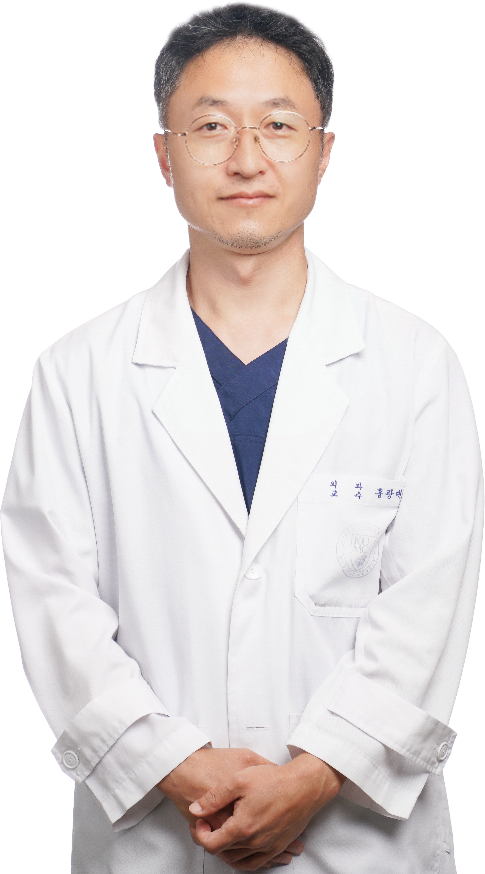
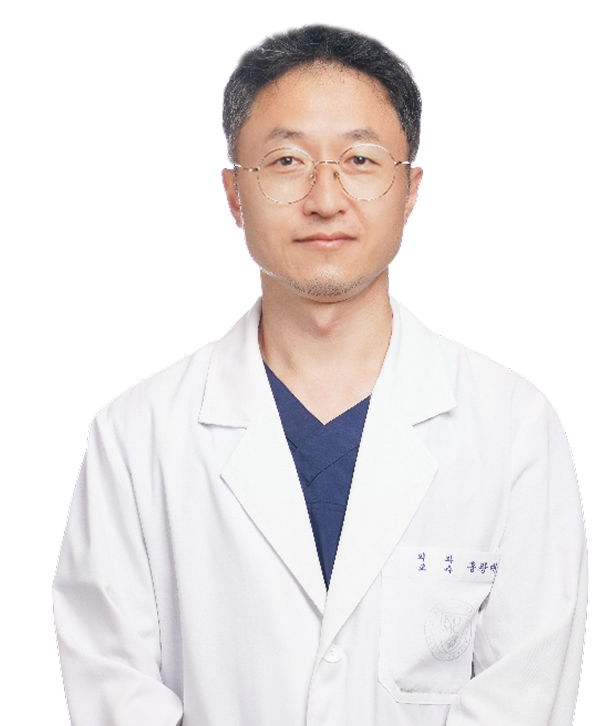
센터장 인사말 검수

diff --git a/src/config/pageContents.ts b/src/config/pageContents.ts
@@ -352,14 +352,14 @@ const anamContent: HospitalPageContent = {
       height: 600
     },
     message: [
-      '안녕하십니까?',
-      '고려대학교안암병원 진료협력센터는 지역 의료기관과의 협력을 통해 환자 중심의 의료서비스를 제공하고, 지역주민의 건강한 삶을 위해 최선을 다하고 있습니다.',
-      '저희 센터는 1·2차 의료기관에서 의뢰하신 환자분들께 신속하고 정확한 진료가 이루어질 수 있도록 최선을 다하며, 지역 의료기관과의 상생 협력을 통해 균형적인 의료 발전을 도모하고자 합니다.',
-      '원장님과 의료진분들의 신뢰를 바탕으로 환자분들의 건강한 미래를 함께 만들어가겠습니다.',
-      '진료협력 관련 문의사항이 있으시면 언제든지 연락 주시기 바랍니다.'
+      '안녕하십니까?\n항상 환자분들의 건강을 위해 헌신하시는 원장님과 의료진 여러분께 깊은 감사와 존경의 인사를 드립니다. 귀 병원의 변함없는 노력과 따뜻한 진료가 많은 환자들에게 희망이 되고 있음을 잘 알고 있습니다.',
+      '저희 고려대학교 안암병원은 지역 의료기관과의 긴밀한 협력을 바탕으로, 환자 중심의 의료서비스를 제공하고자 최선을 다하고 있습니다.',
+      '앞으로도 원장님과 긴밀한 협력을 통해 환자분들께 최상의 의료서비스를 제공할 수 있도록 최선을 다하겠습니다.',
+      '언제든지 진료협력과 관련하여 도움이 필요하시다면 진료협력센터로 편하게 연락 주시기 바랍니다.',
+      '귀 병원의 지속적인 발전과 원장님의 건승을 기원합니다.\n감사합니다.'
     ],
     signature: {
-      name: '최혁순',
+      name: '최 혁 순',
       title: '고려대학교안암병원 진료협력센터장'
     }
   },
@@ -847,14 +847,14 @@ const guroContent: HospitalPageContent = {
       height: 600
     },
     message: [
-      '안녕하십니까. 고려대학교 구로병원 진료협력센터장 입니다.',
-      '고려대학교 구로병원 진료협력센터는 지역 의료기관과의 협력을 통해 환자 중심의 의료서비스를 제공하고, 지역주민의 건강한 삶을 위해 최선을 다하고 있습니다.',
-      '저희 센터는 1·2차 의료기관에서 의뢰하신 환자분들께 신속하고 정확한 진료가 이루어질 수 있도록 최선을 다하며, 지역 의료기관과의 상생 협력을 통해 균형적인 의료 발전을 도모하고자 합니다.',
-      '원장님과 의료진분들의 신뢰를 바탕으로 환자분들의 건강한 미래를 함께 만들어가겠습니다.',
-      '진료협력 관련 문의사항이 있으시면 언제든지 연락 주시기 바랍니다.'
+      '안녕하십니까.\n고려대학교 구로병원 진료협력센터장 입니다.',
+      '항상 지역의료 현장에서 환자 진료를 위해 헌신하시며, 본원에 많은 환자를 믿고 의뢰해 주시는 전국의 1·2차 의료기관 선생님들께 깊은 감사의 인사를 드립니다.',
+      '본원은 상급종합병원으로서 중증·난이도 높은 환자 진료에 최선을 다함과 동시에, 지역의료기관과의 긴밀한 협력을 통해 환자에게 보다 신속하고 체계적인 의료 서비스를 제공하는 것을 중요한 책무로 여기고 있습니다.\n선생님들께서 보내주신 신뢰와 성원 덕분에, 진료의뢰와 회송을 중심으로 한 협력 진료 체계가 보다 안정적으로 운영될 수 있었습니다.',
+      '앞으로 진료협력센터는 의뢰·회송 과정의 편의성과 신속성을 지속적으로 개선하고, 원활한 소통과 상호 존중을 바탕으로 한 진료 협력 관계가 더욱 활성화될 수 있도록 최선을 다하겠습니다.\n또한 협력병·의원 선생님들께 실질적으로 도움이 되는 진료 연계 체계를 구축하여 지역의료 발전에 기여하는 상급종합병원이 되도록 노력하겠습니다.',
+      '앞으로도 변함없는 관심과 협력을 부탁드리며, 의뢰해 주시는 모든 환자분들의 진료에 책임감을 가지고 성실히 임할 것을 약속드립니다.\n감사합니다.'
     ],
     signature: {
-      name: '윤영훈',
+      name: '윤 영 훈',
       title: '고려대학교 구로병원 진료협력센터장'
     }
   },
@@ -1451,14 +1451,15 @@ const ansanContent: HospitalPageContent = {
       height: 600
     },
     message: [
-      '안녕하십니까? 고려대학교안산병원 진료협력센터장 홍광대입니다.',
-      '고려대학교안산병원 진료협력센터는 지역 의료기관과의 협력을 통해 환자 중심의 의료서비스를 제공하고, 지역주민의 건강한 삶을 위해 최선을 다하고 있습니다.',
-      '저희 센터는 1·2차 의료기관에서 의뢰하신 환자분들께 신속하고 정확한 진료가 이루어질 수 있도록 최선을 다하며, 지역 의료기관과의 상생 협력을 통해 균형적인 의료 발전을 도모하고자 합니다.',
-      '원장님과 의료진분들의 신뢰를 바탕으로 환자분들의 건강한 미래를 함께 만들어가겠습니다.',
-      '진료협력 관련 문의사항이 있으시면 언제든지 연락 주시기 바랍니다.'
+      '안녕하십니까?\n고려대학교안산병원 진료협력센터장 홍광대입니다.',
+      '홈페이지를 방문해 주셔서 감사드립니다.',
+      '고대안산병원은 상급종합의료기관으로 보건의료의 중추적인 역할을 담당하고 있으며, 지역 병·의원과 긴밀한 진료협력을 위해 진료협력센터를 운영하고 있습니다.',
+      '진료협력센터는 사회여건과 의료 환경의 어려운 변화 속에서 편리하고 효율적인 진료협력시스템을 구축하기 위해 지속적으로 노력하고 있습니다.',
+      '진료협력센터 홈페이지를 통하여 진료의뢰와 결과조회의 편의성을 높이고 의뢰해 주신 환자와 관련하여 믿음을 드리고자 합니다.',
+      '항상 선생님들의 의견에 귀 기울이며 신뢰를 바탕으로 상호 발전하는 진료협력센터가 되도록 모든 직원이 한마음 한 뜻으로 최선을 다하겠습니다.\n감사합니다.'
     ],
     signature: {
-      name: '홍광대',
+      name: '홍 광 대',
       title: '고려대학교 안산병원 진료협력센터장'
     }
   },

diff --git a/src/app/about/greeting/page.module.scss b/src/app/about/greeting/page.module.scss
@@ -14,7 +14,7 @@
   font-weight: $font-weight-semibold;
   line-height: $line-height-normal;
   letter-spacing: -1.92px;
-  color: $gray-12;
+  color: #000000;
   text-align: center;
   margin: 0 0 $spacing-12;
 
@@ -25,8 +25,6 @@
   }
 
   @include mobile {
-    font-size: 32px;
-    letter-spacing: -1.28px;
     margin-bottom: $spacing-8;
   }
 }
@@ -107,15 +105,13 @@
   }
 }
 
-// Figma: 데스크톱 - 좌측 이미지·우측 영역 높이 동일, 좌측 ~45% / 우측 ~55% 비율
+// Figma: 데스크톱 - 좌측 이미지(641px) · 우측 텍스트, gap 80px
 // 태블릿 - 이미지 중앙 배치, 슬로건 오버레이, 텍스트 아래 배치
 .content {
   display: grid;
-  grid-template-columns: minmax(280px, 420px) 1fr;
-  gap: $spacing-16;
+  grid-template-columns: 45fr 55fr; // Figma 비율: 이미지 ~45% / 텍스트 ~55%
+  gap: $spacing-20; // Figma: 80px
   align-items: stretch;
-  max-width: 960px;
-  margin: 0 auto;
 
   @include tablet {
     grid-template-columns: 1fr;
@@ -134,30 +130,19 @@
 .imageWrapper {
   position: relative;
   width: 100%;
-  max-width: 420px;
-  min-height: 100%;
-  display: flex;
-  justify-content: center; // 가로 중앙 정렬
-  align-items: flex-end; // 세로 하단 정렬
-  overflow: visible; // 태블릿에서 슬로건 오버레이를 위해 visible로 변경
+  overflow: visible;
   border-radius: 8px;
+  // 높이는 텍스트 컬럼에 의해 결정됨 (align-items: stretch)
 
   @include tablet {
     order: 1;
-    min-height: 0;
-    max-width: 100%; // 100%로 설정
     width: 100%;
-    margin: 0; // 왼쪽 정렬
-    align-items: flex-end;
-    justify-content: flex-start; // 왼쪽 정렬
     overflow: visible;
   }
 
   @include mobile {
     order: 1;
-    min-height: 0;
     max-width: 100%;
-    align-items: flex-end;
     overflow: visible;
   }
 }
@@ -165,13 +150,13 @@
 // 배경: 건물 스케치 이미지 (원본 높이만큼 크게, 더 많이 보이도록)
 .backgroundImage {
   position: absolute;
-  bottom: 0; // 하단부터 시작
-  right: 0; // 오른쪽 정렬
-  width: 100%; // 전체 너비 사용하여 배경이 더 많이 보이도록
-  height: 100%; // 전체 높이 사용
+  bottom: 0;
+  right: 0;
+  width: 100%;
+  height: 100%;
   z-index: 1;
   opacity: 0.3;
-  overflow: hidden; // 배경 이미지만 잘림 처리
+  overflow: hidden;
 
   @include tablet {
     top: 0; // 상단부터 시작
@@ -200,30 +185,47 @@
   }
 }
 
-// 전면: 센터장 사진 (크기 축소, 중앙 정렬)
+// 전면: 센터장 사진 - 하단 정렬, 텍스트 높이에 맞춤
 .directorImage {
-  position: relative;
-  width: 80%; // 크기 축소 (100% → 80%)
+  position: absolute;
+  bottom: 0;
+  left: 50%;
+  transform: translateX(-50%);
+  width: 70%;
   height: auto;
-  max-height: 85%; // 최대 높이 제한
   object-fit: contain;
-  object-position: center;
+  object-position: center bottom;
   z-index: 2;
 
   @include tablet {
-    width: auto;
-    max-width: 100%; // 100%로 설정
-    max-height: 600px;
     position: relative;
-    z-index: 2;
-    margin-left: 0; // 왼쪽 정렬
+    left: 0;
+    transform: none;
+    width: auto;
+    max-width: 100%;
+    max-height: 600px;
+    margin-left: 0;
   }
 
   @include mobile {
+    position: relative;
+    left: 0;
+    transform: none;
     width: 80%;
     max-height: none;
-    position: relative;
-    z-index: 2;
+  }
+}
+
+// 안산병원: 이미지가 다른 병원보다 크므로 축소
+.directorImageSmall {
+  width: 55%;
+
+  @include tablet {
+    max-height: 480px;
+  }
+
+  @include mobile {
+    width: 65%;
   }
 }
 
@@ -252,7 +254,7 @@
 
   @include mobile {
     display: block;
-    margin-bottom: $spacing-8;
+    // margin-bottom: $spacing-8;
     text-align: center;
     width: 100%;
 
@@ -262,8 +264,8 @@
     }
 
     .sloganAnsan {
-      font-size: 32px;
-      line-height: 48px;
+      font-size: 24px;
+      line-height: 36px;
       margin-bottom: 0;
     }
   }
@@ -285,7 +287,7 @@
   display: flex;
   flex-direction: column;
   align-items: stretch;
-  gap: 0;
+  gap: $spacing-10; // Figma: 40px
 
   @include tablet {
     order: 2;
@@ -298,13 +300,15 @@
 }
 
 .greetingText {
-  font-size: $font-size-lg;
-  line-height: $line-height-relaxed;
-  color: $gray-12;
+  font-size: $font-size-xl; // Figma: Body 2_2 Regular = 20px
+  line-height: $line-height-normal; // Figma: 1.5em
+  color: $gray-11; // Figma: #636363
+  letter-spacing: -0.8px; // Figma: -4%
   text-align: left;
 
   p {
     margin: 0 0 $spacing-4;
+    white-space: pre-line;
 
     &:last-child {
       margin-bottom: 0;
@@ -312,18 +316,17 @@
   }
 
   @include tablet {
-    font-size: $font-size-base;
-  }
-
-  @include mobile {
-    font-size: $font-size-base;
+    font-size: $font-size-lg;
   }
 }
 
-// Figma: 서명 왼쪽 정렬
+// Figma: 서명 - 직함 + 이름 가로 배치
 .signature {
   margin-top: $spacing-8;
-  text-align: left;
+  display: flex;
+  flex-direction: row;
+  align-items: center;
+  gap: 26px; // Figma: 26px
 
   @include tablet {
     margin-top: $spacing-6;
@@ -335,30 +338,24 @@
 }
 
 .signatureName {
-  font-size: $font-size-xl;
+  font-size: $font-size-2xl; // Figma: Body 1_1 Semibold = 24px
   font-weight: $font-weight-semibold;
-  color: $gray-12;
-  margin: 0 0 $spacing-1;
+  color: $gray-11; // Figma: #636363
+  letter-spacing: -0.96px; // Figma: -4%
+  margin: 0;
 
   @include tablet {
-    font-size: $font-size-lg;
-  }
-
-  @include mobile {
-    font-size: $font-size-lg;
+    font-size: $font-size-xl;
   }
 }
 
 .signatureTitle {
-  font-size: $font-size-base;
-  color: $gray-11;
+  font-size: $font-size-xl; // Figma: Body 2_2 Regular = 20px
+  color: $gray-11; // Figma: #636363
+  letter-spacing: -0.8px; // Figma: -4%
   margin: 0;
 
   @include tablet {
-    font-size: $font-size-sm;
-  }
-
-  @include mobile {
-    font-size: $font-size-sm;
+    font-size: $font-size-lg;
   }
 }

diff --git a/src/app/about/greeting/page.tsx b/src/app/about/greeting/page.tsx
@@ -8,7 +8,7 @@ import { useHospital } from '@/hooks'
 import styles from './page.module.scss'
 
 export default function GreetingPage() {
-  const { pageContent, hospitalId, isAnam } = useHospital()
+  const { pageContent, hospitalId, isAnam, isAnsan } = useHospital()
   const greetingInfo = pageContent.aboutGreeting
 
   // 병원별 배경 이미지 경로
@@ -97,8 +97,8 @@ export default function GreetingPage() {
                 ))}
               </div>
               <div className={styles.signature}>
-                <p className={styles.signatureName}>{greetingInfo.signature.name}</p>
                 <p className={styles.signatureTitle}>{greetingInfo.signature.title}</p>
+                <p className={styles.signatureName}>{greetingInfo.signature.name}</p>
               </div>
             </div>
           </div>
